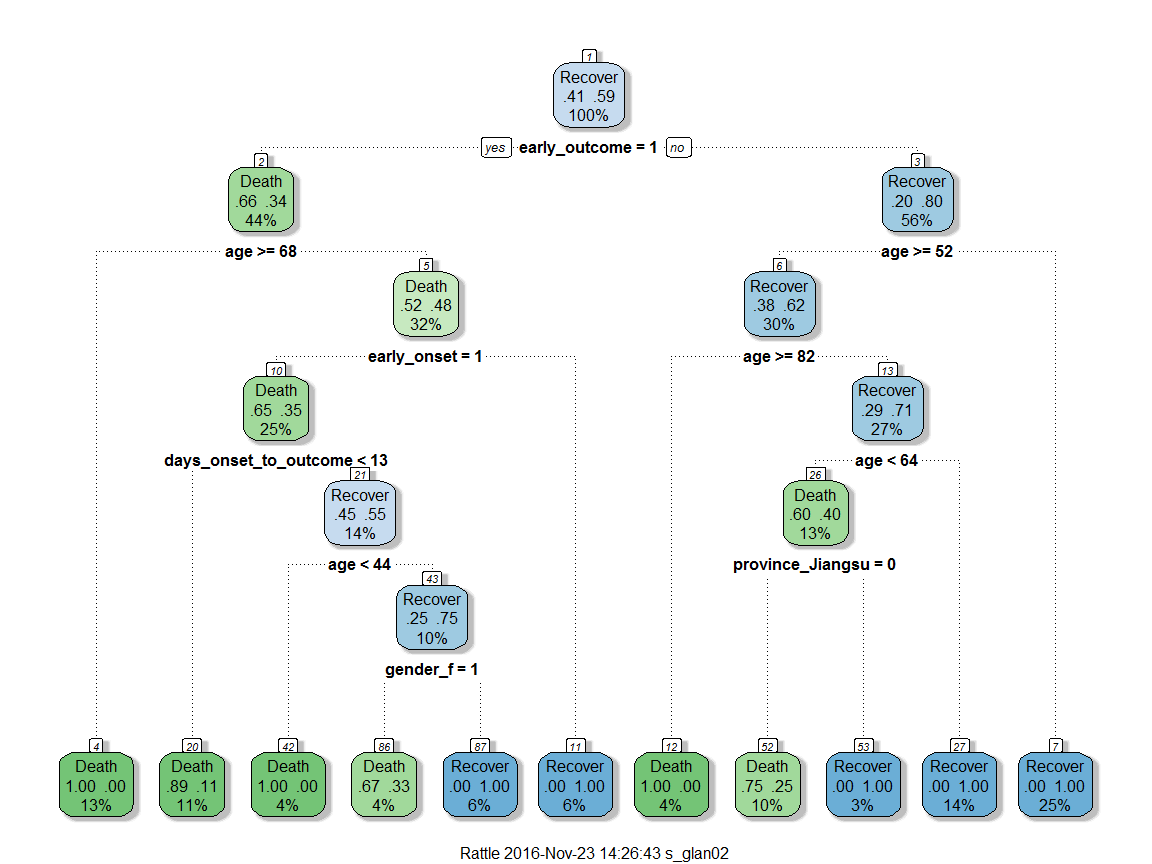
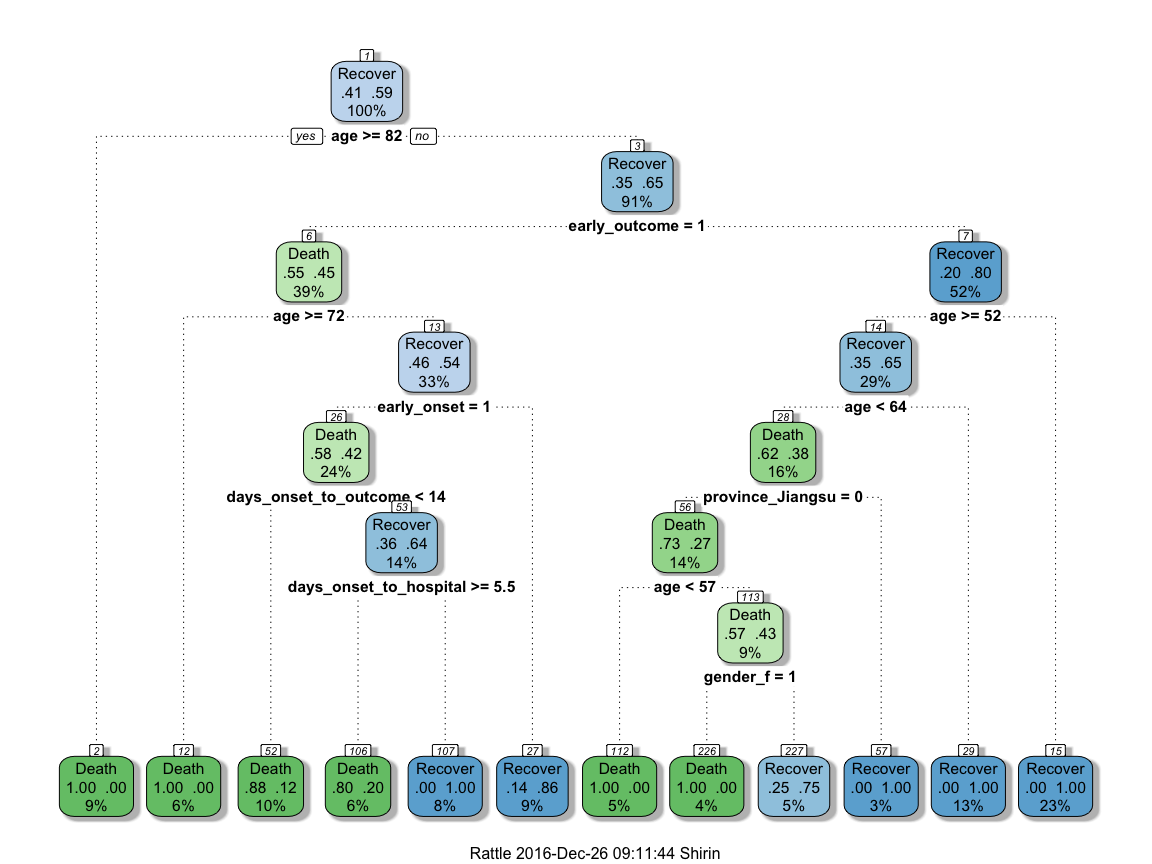
updated flu

diff --git a/_posts/2016-11-27-flu_outcome_ML_post.md b/_posts/2016-11-27-flu_outcome_ML_post.md
@@ -6,7 +6,7 @@ categories: machine_learning
 tags: Machine_Learning ggplot2 Random_Forest
 ---
 
-**Edited on 28 November 2016**
+**Edited on 26 December 2016**
 
 ------------------------------------------------------------------------
 
@@ -90,6 +90,9 @@ fluH7N9.china.2013_gather$gender[is.na(fluH7N9.china.2013_gather$gender)] <- "un
 
 # rearrange province order so that Other is the last
 fluH7N9.china.2013_gather$province <- factor(fluH7N9.china.2013_gather$province, levels = c("Jiangsu",  "Shanghai", "Zhejiang", "Other"))
+
+# convert age to numeric
+fluH7N9.china.2013_gather$age <- as.numeric(as.character(fluH7N9.china.2013_gather$age))
 ```
 
 ``` r
@@ -120,7 +123,7 @@ my_theme <- function(base_size = 12, base_family = "sans"){
 ``` r
 # plotting raw data
 
-ggplot(data = fluH7N9.china.2013_gather, aes(x = Date, y = as.numeric(age), fill = outcome)) +
+ggplot(data = fluH7N9.china.2013_gather, aes(x = Date, y = age, fill = outcome)) +
   stat_density2d(aes(alpha = ..level..), geom = "polygon") +
   geom_jitter(aes(color = outcome, shape = gender), size = 1.5) +
   geom_rug(aes(color = outcome)) +
@@ -179,7 +182,7 @@ p1 <- ggplot(data = fluH7N9.china.2013_gather_2, aes(x = value, fill = outcome, 
     caption = ""
   )
 
-p2 <- ggplot(data = fluH7N9.china.2013_gather, aes(x = as.numeric(age), fill = outcome, color = outcome)) +
+p2 <- ggplot(data = fluH7N9.china.2013_gather, aes(x = age, fill = outcome, color = outcome)) +
   geom_density(alpha = 0.3, size = 1) +
   geom_rug() +
   scale_color_brewer(palette="Set1", na.value = "grey50") +
@@ -214,7 +217,7 @@ When we look at the age distribution it is obvious that people who died tended t
 And lastly, I want to plot how many days passed between onset, hospitalisation and outcome for each case.
 
 ``` r
-ggplot(data = fluH7N9.china.2013_gather, aes(x = Date, y = as.numeric(age), color = outcome)) +
+ggplot(data = fluH7N9.china.2013_gather, aes(x = Date, y = age, color = outcome)) +
   geom_point(aes(shape = gender), size = 1.5, alpha = 0.6) +
   geom_path(aes(group = case.ID)) +
   facet_wrap( ~ province, ncol = 2) +
@@ -1364,7 +1367,7 @@ results_combined_gather$gender[is.na(results_combined_gather$gender)] <- "unknow
 
 ``` r
 ggplot(data = results_combined_gather, aes(x = date, y = log2_ratio, color = predicted_outcome)) +
-  geom_jitter(aes(size = as.numeric(age)), alpha = 0.3) +
+  geom_jitter(aes(size = age), alpha = 0.3) +
   geom_rug() +
   facet_grid(gender ~ group_dates) +
   labs(
